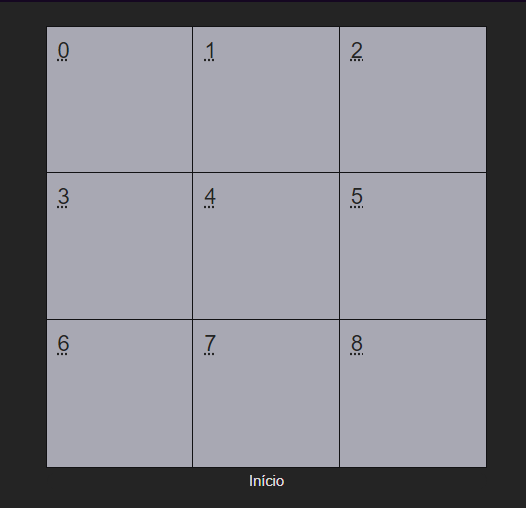
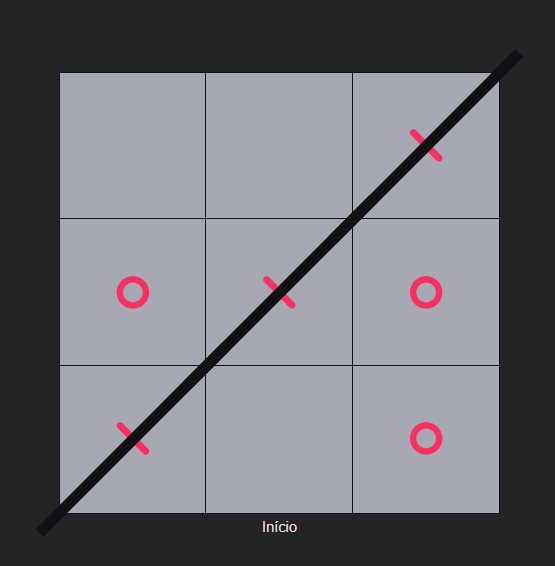
adjust view

diff --git a/src/App.jsx b/src/App.jsx
@@ -81,13 +81,11 @@ export function App() {
 
   return (
     <>
-    
       <div className="board-game">
         {gameData.map((value, index)=>(
           <span onClick={()=> {handleClick(index)}}
           key={index}
           className={winnerOk?.indexes.includes(index) ? winnerOk.orientation : undefined}>
-            <abbr title="">{index}</abbr>
             {value === 1 && '❌'}
             {value === 2 && '⭕'}
           </span> 

diff --git a/src/styles.scss b/src/styles.scss
@@ -84,14 +84,6 @@ html, body{
         rotate: 135deg;
       }
     }
-
-    abbr {
-      color: var(--gray-700);
-      font-size: 20px;
-      position: absolute;
-      top: 10px;
-      left: 10px;
-    }
   }
 }
 
